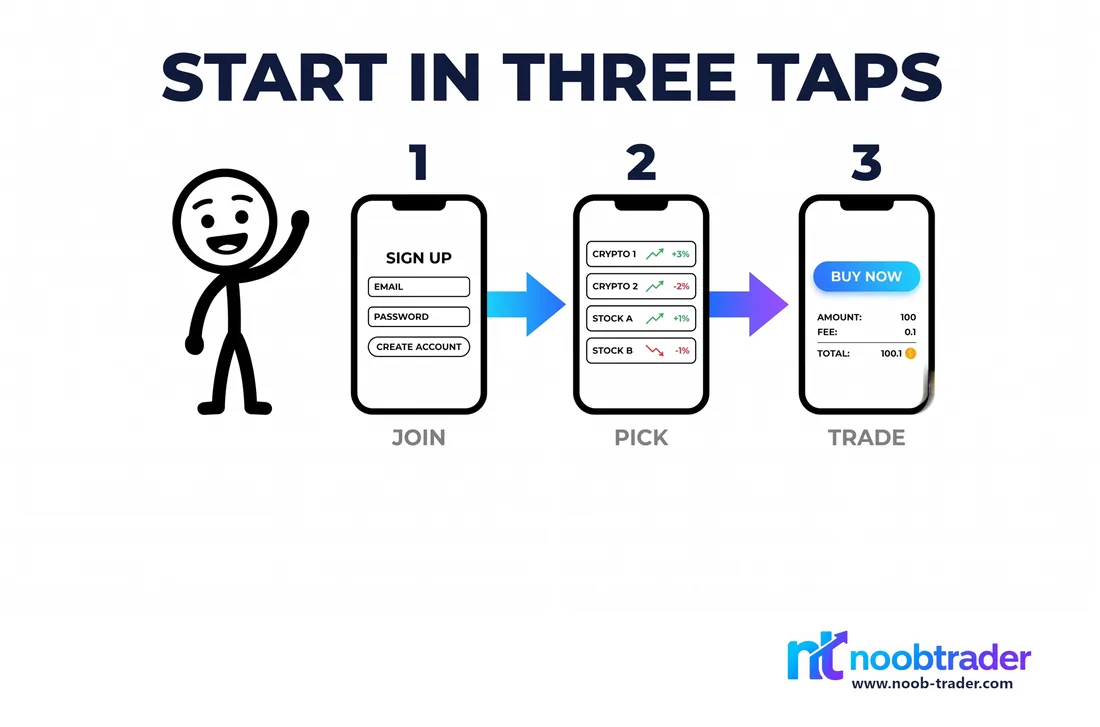
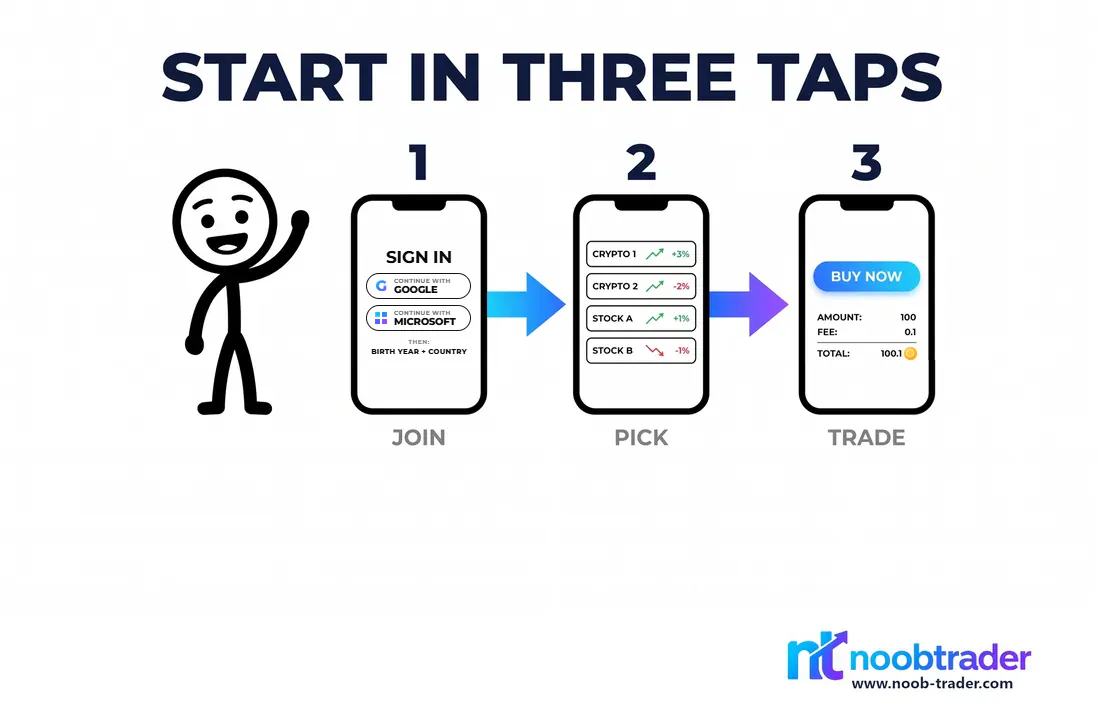
Deploy web app from Noob-Trader@480cc4c

Changed region(s): [[0.3091, 0.3329, 0.4327, 0.5144], [0.8036, 0.4842, 0.8655, 0.575]]

diff --git a/index.html b/index.html
@@ -1373,10 +1373,8 @@
         <img class="sticker-img" src="./illustrations/app-leaderboard-explained.webp" alt="A leaderboard ranked by percentage growth" loading="lazy" decoding="async" width="1100" height="727">
         <div class="sticker-body"><h3>Fair leaderboards</h3><p>Ranked by % growth, not by who started rich. Daily Portfolio Race and Stock Showdown, with each day's top three on the Past winners board.</p></div>
       </div>
-      <!-- The words are the Competition Cup (founder, 25 Sep 2026); the picture
-           still has "SCHOOLS LEAGUE" drawn into it and needs new art. -->
       <div class="sticker-card anim anim-delay-1" style="--sk:#ffc312" data-tilt>
-        <img class="sticker-img" src="./illustrations/app-school-league.webp" alt="Three stick figures on a winners' podium" loading="lazy" decoding="async" width="1100" height="727">
+        <img class="sticker-img" src="./illustrations/app-competition.webp" alt="Three stick figures on a winners' podium, under the words Start your own competition and a share code" loading="lazy" decoding="async" width="1100" height="727">
         <div class="sticker-body"><h3>Start your own competition</h3><p>Pick how long it runs, the starting cash and the markets, then share the code with your friends. Best return wins, for bragging rights only.</p></div>
       </div>
       <div class="sticker-card anim anim-delay-2" style="--sk:#20C4FB" data-tilt>

diff --git a/app/sw.js b/app/sw.js
@@ -14,12 +14,12 @@
  * hashed JS/CSS and brand images — is cached.
  */
 
-// 20260925142013 is replaced with the build timestamp by the swVersion() plugin in
+// 20260925145054 is replaced with the build timestamp by the swVersion() plugin in
 // vite.config.js. It MUST change every deploy: the activate handler deletes any
 // cache whose key does not start with VERSION, so a constant version means an
 // old shell can never be evicted. That is how a user ends up pinned to a build
 // from before a fix and reports the bug as still present.
-const VERSION = "nt-20260925142013";
+const VERSION = "nt-20260925145054";
 const SHELL = `${VERSION}-shell`;
 
 // Anything the app cannot function without. Scope-relative so this works under

diff --git a/schools/sw.js b/schools/sw.js
@@ -14,12 +14,12 @@
  * hashed JS/CSS and brand images — is cached.
  */
 
-// 20260925142013 is replaced with the build timestamp by the swVersion() plugin in
+// 20260925145054 is replaced with the build timestamp by the swVersion() plugin in
 // vite.config.js. It MUST change every deploy: the activate handler deletes any
 // cache whose key does not start with VERSION, so a constant version means an
 // old shell can never be evicted. That is how a user ends up pinned to a build
 // from before a fix and reports the bug as still present.
-const VERSION = "nt-20260925142013";
+const VERSION = "nt-20260925145054";
 const SHELL = `${VERSION}-shell`;
 
 // Anything the app cannot function without. Scope-relative so this works under
